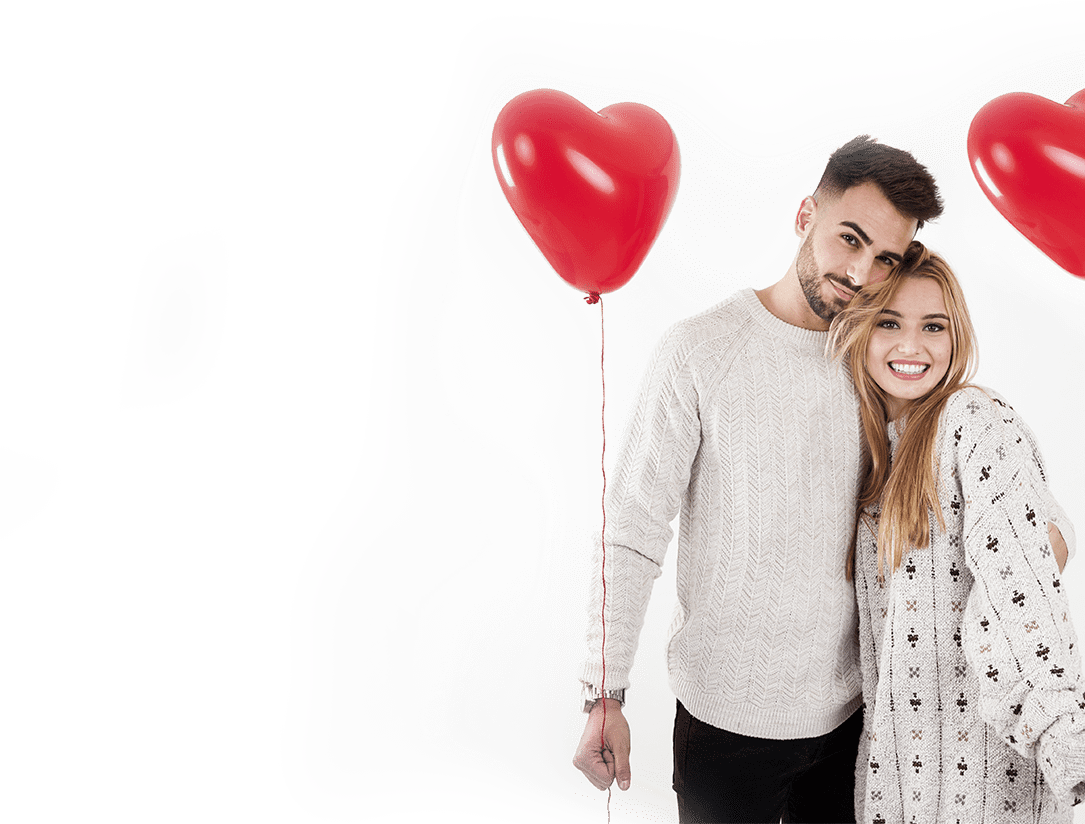
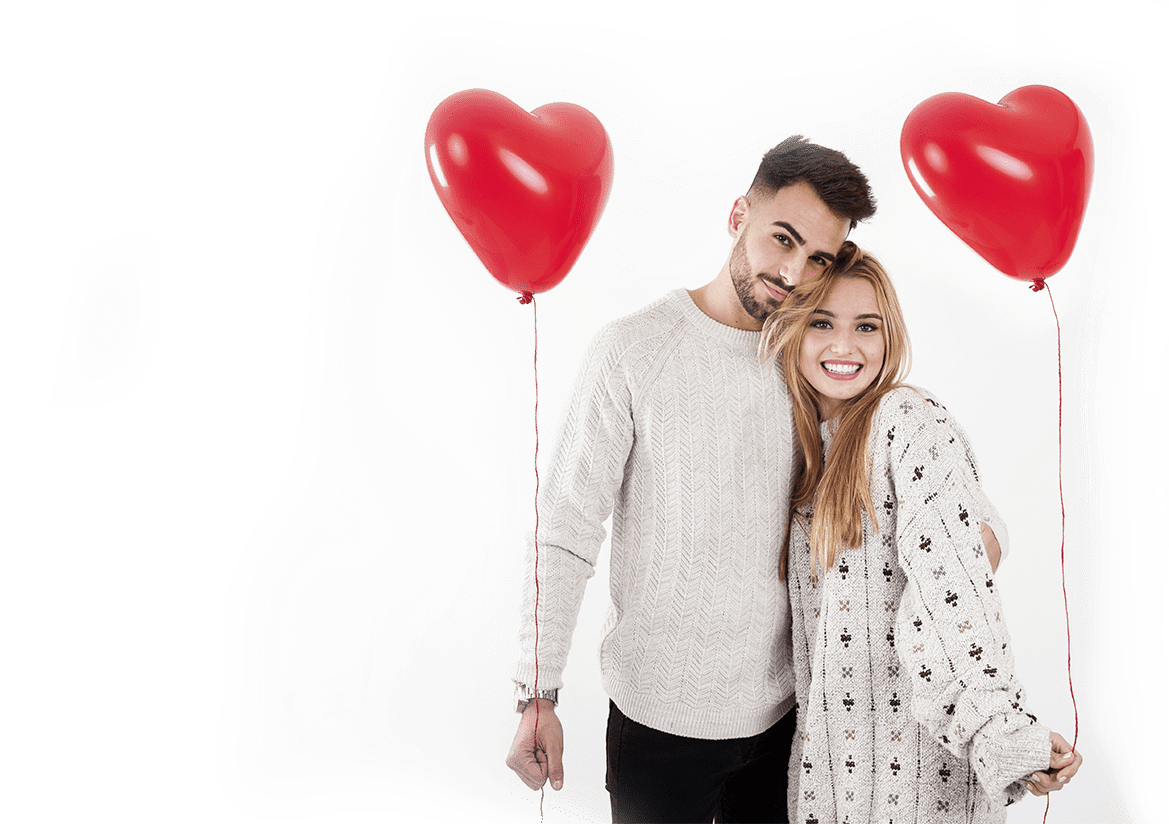
Big screens responsive is done

diff --git a/index.html b/index.html
@@ -1,1 +1,1 @@
-<!DOCTYPE html><html lang="ru"><head><meta charset="UTF-8"/><meta name="viewport" content="width=device-width, initial-scale=1, user-scalable=0, minimum-scale=1, maximum-scale=1"/><meta http-equiv="X-UA-Compatible" content="ie=edge"/><meta name="author" content="Master Vision"/><meta name="description" content="Бесплатный онлайн-вебинар «Любовь и отношения в Дизайне человека»"/><meta property="og:image" content=""/><title>Бесплатный онлайн-вебинар «Любовь и отношения в Дизайне человека»</title><link rel="icon" type="image/x-icon" href="favicon.ico"/><link rel="shortcut icon" type="image/x-icon" href="favicon.png"/><link rel="stylesheet" href="css/bootstrap.min.css"/><link rel="stylesheet" href="css/styles.css"/><script> !function(){var t=document.createElement("script");t.type="text/javascript",t.async=!0,t.src="https://vk.com/js/api/openapi.js?158",t.onload=function(){VK.Retargeting.Init("VK-RTRG-11201-hHU9b"),VK.Retargeting.Hit()},document.head.appendChild(t)}();</script></head><body><noscript><img src="https://vk.com/rtrg?p=VK-RTRG-11201-hHU9b" style="position:fixed; left:-999px;" alt=""/></noscript><!-- Yandex.Metrika counter --><script type="text/javascript">(function (d, w, c) { (w[c] = w[c] || []).push(function() { try { w.yaCounter35450015 = new Ya.Metrika({ id:35450015, clickmap:true, trackLinks:true, accurateTrackBounce:true, webvisor:true }); } catch(e) { } }); var n = d.getElementsByTagName("script")[0], s = d.createElement("script"), f = function () { n.parentNode.insertBefore(s, n); }; s.type = "text/javascript"; s.async = true; s.src = "https://cdn.jsdelivr.net/npm/yandex-metrica-watch/watch.js"; if (w.opera == "[object Opera]") { d.addEventListener("DOMContentLoaded", f, false); } else { f(); } })(document, window, "yandex_metrika_callbacks");</script><noscript><div><img src="https://mc.yandex.ru/watch/35450015" style="position:absolute; left:-9999px;" alt=""/></div></noscript><!-- /Yandex.Metrika counter --><section id="main"><div class="container"><div class="pre">Бесплатный онлайн-вебинар</div><div class="title_n_authors"><h1>ЛЮБОВЬ И ОТНОШЕНИЯ В ДИЗАЙНЕ ЧЕЛОВЕКА</h1><p>Авторы: Анна Ролева и Вероника Юрина</p></div><p class="main_subtitle">Что нужно делать для того, чтобы обрести вторую половинку, и чтобы отношения не разрушались, а укреплялись!</p><button class="button" data-toggle="modal" data-target="#myModalForm">ПОЛУЧИТЬ ОБУЧЕНИЕ БЕСПЛАТНО</button><img src="img/flower_main.png" alt="Цветы" id="flower_main"/></div></section><section id="for"><div class="container"><h3 class="for_title">Это обучение необходимо тем:</h3><div class="row"><div class="col-md-6 col-sm-6"><img id="collage" src="img/collage.jpg" alt="Коллаж"/></div><div class="col-md-6 col-sm-6"><ul class="for_list"><li>Кто <span>испытывает сложности </span>в отношениях: деловых и межличностных</li><li>Кто <span>устал чувствовать боль </span>и страдать от любви</li><li> <span>Кто чувствует, что его потенциал </span>в любви и отношениях реализован не до конца</li><li>У кого <span>нет понимания </span>с партнером</li><li>У кого есть чувства, но <span>отношения «не работают»</span></li><li>Кто не <span>удовлетворяет отношениям </span>с партнером или в семье</li><li>У кого <span>есть проблемы и трудности </span>с детьми или родителями</li><li>Кто <span>испытывает страх </span>открыто выражать себя в отношениях</li><li>Кто испытывает <span>непонимание своей сексуальности </span>и сексуальности партнера</li></ul></div></div><h4 class="for_after_title">И всем тем, кто откликается на нас и Дизайн Человека!</h4><img src="img/for_petals.jpg" alt="2 лепестка" id="for_petals"/></div></section><section id="know"><div class="container"><h3 class="reach_title">Благодаря этому вебинару вы узнаете:</h3><div class="row"><div class="col-md-6 col-sm-6"><ul class="know_list"><li>Как <span>освободиться от груза </span>прошлых отношений и реализовать свой потенциал по-максимуму</li><li> <span>Мастерство построения </span>любовных, семейных и деловых отношениях</li><li>Как вывести ваши отношения из теней и <span>начать проживать свои дар</span></li><li> <span>Механика взаимоотношений </span>с позиции дизайна человека</li><li> <span>Причины </span>сложностей и конфликтов в отношениях</li><li>Где в вашей карте закодирован <span>потенциал </span>к созданию семьи</li><li>Ваша <span>роль в отношениях </span>и сексе с позиции ДЧ</li><li>Как <span>отпустить боль и обиды, </span>поняв свою механику и механику партнера</li><li> <span>Ключи к привлекательности </span>и сексуальности по дизайну</li></ul></div></div></div></section><div class="modal fade" tabindex="-1" role="dialog" id="myModalForm"><div class="modal-dialog" role="document"><div class="modal-content"><div class="modal-wrapper"><button class="close" type="button" data-dismiss="modal" aria-label="Close"><span aria-hidden="true">&times;</span></button><div class="modal-body"><form class="form_newsletter form_modal" id="modalForm" action="https://aleksandrkudryashov1.autoweboffice.ru/?r=personal/newsletter/sub/add&amp;id=3568&amp;lg=ru&amp;Contact[id_newsletter]=420" method="post" enctype="application/x-www-form-urlencoded" accept-charset="UTF-8"><div class="email-block"><input type="hidden" value="1" name="required_fields[email]"/><input class="mail" name="Contact[email]" type="text" placeholder="Ваш email"/></div><button class="button button_mail" type="submit">Получить обучение бесплатно</button><p class="alert_message"></p><!--Обязательный параметр. Не удалять и не изменять!--><input type="hidden" value="420" name="Contact[id_newsletter]"/><!--API код канала рекламы--><input type="hidden" value="Тэсс Русские Руны" name="Contact[id_advertising_channel_page]"/><div class="checking"><input class="check" type="checkbox" id="check" checked="checked"/><label class="check_label" for="check">Согласен/на на обработку <a href="javascript:void(0);" data-toggle="modal" data-target="#myPolitics"> персональных данных</a> по 152 - Ф3</label></div></form></div></div></div></div></div><div class="modal fade" tabindex="-1" role="dialog" id="myPolitics"><div class="modal-dialog" role="document"><div class="modal-content"><div class="modal-wrapper"><div class="modal-header"><button class="close" type="button" data-dismiss="modal" aria-label="Close"><span aria-hidden="true">&times;</span></button><h4 class="modal-title">Политика конфиденциальности<small>(Обновлено 25.05.2018)</small></h4></div><div class="modal-body"><p>Настоящая Политика конфиденциальности персональной информации (далее — Политика) действует в отношении всей информации, которую ООО «Master Vision» и/или его аффилированные лица, могут получить о пользователе во время использования им любого из сайтов, сервисов, служб, программ и продуктов ООО «Master Vision» (далее — Сервисы).</p><p>Использование Сервиса означает безоговорочное согласие пользователя с настоящей Политикой и указанными в ней условиями обработки его персональной информации; в случае несогласия с этими условиями пользователь должен воздержаться от использования Сервиса.</p><p>1. Персональная информация пользователей, которую получает и обрабатывает ООО «Master Vision»</p><p>1.1. В рамках настоящей Политики под «персональной информацией пользователя» понимаются:</p><p>1.1.1. Персональная информация, которую пользователь предоставляет о себе самостоятельно при регистрации (создании учётной записи) или в процессе использования Сервиса, включая персональные данные пользователя. Обязательная для предоставления Сервиса (оказания услуг) информация помечена специальным образом. Иная информация предоставляется пользователем на его усмотрение.</p><p>1.1.2 Данные, которые автоматически передаются Сервису в процессе их использования с помощью установленного на устройстве пользователя программного обеспечения, в том числе IP-адрес, информация из cookie, информация о браузере пользователя (или иной программе, с помощью которой осуществляется доступ к Сервису), время доступа, адрес запрашиваемой страницы.</p><p>1.1.3 Иная информация о пользователе, сбор и/или предоставление которой определено в Регулирующих документах отдельных Сервисов.</p><p>1.2. Настоящая Политика применима только к Сервису ООО «Master Vision». ООО «Master Vision» не контролирует и не несет ответственность за сайты третьих лиц, на которые пользователь может перейти по ссылкам, доступным на сайтах ООО «Master Vision», в том числе в результатах поиска. На таких сайтах у пользователя может собираться или запрашиваться иная персональная информация, а также могут совершаться иные действия.</p><p>1.3. ООО «Master Vision» в общем случае не проверяет достоверность персональной информации, предоставляемой пользователями, и не осуществляет контроль за их дееспособностью. Однако ООО «Master Vision» исходит из того, что пользователь предоставляет достоверную и достаточную персональную информацию по вопросам, предлагаемым в форме регистрации, и поддерживает эту информацию в актуальном состоянии.</p><p>2. Цели сбора и обработки персональной информации о пользователе</p><p>2.1. ООО «Master Vision» собирает и хранит только те персональные данные, которые необходимы для предоставления Сервиса и оказания услуг (исполнения соглашений и договоров с пользователем).</p><p>2.2. Персональную информацию пользователя ООО «Master Vision» может использовать в следующих целях:</p><p>2.2.1. Идентификация стороны в рамках соглашений и договоров с ООО «Master Vision»;</p><p>2.2.2. Предоставление пользователю персонализированных Сервисов;</p><p>2.2.3. Связь с пользователем, в том числе направление уведомлений, запросов и информации, касающихся использования Сервиса, оказания услуг, а также обработка запросов и заявок от пользователя;</p><p>2.2.4. Улучшение качества Сервиса, удобства их использования, разработка новых Сервисов и услуг;</p><p>2.2.5. Таргетирование рекламных материалов;</p><p>2.2.6. Проведение статистических и иных исследований на основе обезличенных данных.</p><p>3. Условия обработки персональной информации пользователя и её передачи третьим лицам</p><p>3.1. ООО «Master Vision» хранит персональную информацию пользователей в соответствии с внутренними регламентами конкретных сервисов.</p><p>3.2. В отношении персональной информации пользователя сохраняется ее конфиденциальность, кроме случаев добровольного предоставления пользователем информации о себе для общего доступа неограниченному кругу лиц. При использовании отдельных Сервисов пользователь соглашается с тем, что определённая часть его персональной информации становится общедоступной.</p><p>3.3. ООО «Master Vision» вправе передать персональную информацию пользователя третьим лицам в следующих случаях:</p><p>3.3.1. Пользователь выразил свое согласие на такие действия;</p><p>3.3.2. Передача необходима в рамках использования пользователем определенного Сервиса либо для оказания услуги пользователю;</p><p>3.3.3. Передача предусмотрена российским или иным применимым законодательством в рамках установленной законодательством процедуры;</p><p>3.3.4. Такая передача происходит в рамках продажи или иной передачи бизнеса (полностью или в части), при этом к приобретателю переходят все обязательства по соблюдению условий настоящей Политики применительно к полученной им персональной информации;</p><p>3.3.5. В целях обеспечения возможности защиты прав и законных интересов ООО «Master Vision» или третьих лиц в случаях, когда пользователь нарушает Пользовательское соглашение сервиса.</p><p>3.4. При обработке персональных данных пользователей ООО «Master Vision» руководствуется Федеральным законом РФ «О персональных данных».</p><p>4. Изменение пользователем персональной информации</p><p>4.1. Пользователь может в любой момент изменить (обновить, дополнить) предоставленную им персональную информацию или её часть, а также параметры её конфиденциальности, воспользовавшись функцией редактирования персональных данных в персональном разделе соответствующего Сервиса.</p><p>4.2. Пользователь также может удалить предоставленную им в рамках определенной учетной записи персональную информацию, воспользовавшись функцией «Отписаться от рассылки» в персональном разделе соответствующего Сервиса При этом удаление аккаунта может повлечь невозможность использования некоторых Сервисов.</p><p>5. Меры, применяемые для защиты персональной информации пользователей ООО «Master Vision» принимает необходимые и достаточные организационные и технические меры для защиты персональной информации пользователя от неправомерного или случайного доступа, уничтожения, изменения, блокирования, копирования, распространения, а также от иных неправомерных действий с ней третьих лиц.</p><p>6. Изменение Политики конфиденциальности. Применимое законодательство</p><p>6.1. ООО «Master Vision» имеет право вносить изменения в настоящую Политику конфиденциальности. При внесении изменений в актуальной редакции указывается дата последнего обновления. Новая редакция Политики вступает в силу с момента ее размещения, если иное не предусмотрено новой редакцией Политики. Действующая редакция всегда находится на странице по адресу http://mastervision.su/confidential/.</p><p>6.2. К настоящей Политике и отношениям между пользователем и ООО «Master Vision», возникающим в связи с применением Политики конфиденциальности, подлежит применению право Российской Федерации.</p><p>7. Обратная связь. Вопросы и предложения</p><p>Все предложения или вопросы по поводу настоящей Политики следует сообщать в Службу поддержки пользователей Mastervision (info@mastervision.su)</p></div></div></div></div></div><script src="js/libs.min.js"></script><script src="js/scripts.js"></script><!--BEGIN JIVOSITE CODE--><!--script| (function() {var widget_id = 'cMdj5UfoZX';var s = document.createElement('script');s.type = 'text/javascript';s.async = true;s.src = '//code.jivosite.com/script/widget/' + widget_id;var ss = document.getElementsByTagName('script')[0];ss.parentNode.insertBefore(s, ss);})();--><!--END JIVOSITE CODE--></body></html>
+<!DOCTYPE html><html lang="ru"><head><meta charset="UTF-8"/><meta name="viewport" content="width=device-width, initial-scale=1, user-scalable=0, minimum-scale=1, maximum-scale=1"/><meta http-equiv="X-UA-Compatible" content="ie=edge"/><meta name="author" content="Master Vision"/><meta name="description" content="Бесплатный онлайн-вебинар «Любовь и отношения в Дизайне человека»"/><meta property="og:image" content=""/><title>Бесплатный онлайн-вебинар «Любовь и отношения в Дизайне человека»</title><link rel="icon" type="image/x-icon" href="favicon.ico"/><link rel="shortcut icon" type="image/x-icon" href="favicon.png"/><link rel="stylesheet" href="css/bootstrap.min.css"/><link rel="stylesheet" href="css/styles.css"/><script> !function(){var t=document.createElement("script");t.type="text/javascript",t.async=!0,t.src="https://vk.com/js/api/openapi.js?158",t.onload=function(){VK.Retargeting.Init("VK-RTRG-11201-hHU9b"),VK.Retargeting.Hit()},document.head.appendChild(t)}();</script></head><body><noscript><img src="https://vk.com/rtrg?p=VK-RTRG-11201-hHU9b" style="position:fixed; left:-999px;" alt=""/></noscript><!-- Yandex.Metrika counter --><script type="text/javascript">(function (d, w, c) { (w[c] = w[c] || []).push(function() { try { w.yaCounter35450015 = new Ya.Metrika({ id:35450015, clickmap:true, trackLinks:true, accurateTrackBounce:true, webvisor:true }); } catch(e) { } }); var n = d.getElementsByTagName("script")[0], s = d.createElement("script"), f = function () { n.parentNode.insertBefore(s, n); }; s.type = "text/javascript"; s.async = true; s.src = "https://cdn.jsdelivr.net/npm/yandex-metrica-watch/watch.js"; if (w.opera == "[object Opera]") { d.addEventListener("DOMContentLoaded", f, false); } else { f(); } })(document, window, "yandex_metrika_callbacks");</script><noscript><div><img src="https://mc.yandex.ru/watch/35450015" style="position:absolute; left:-9999px;" alt=""/></div></noscript><!-- /Yandex.Metrika counter --><section id="main"><div class="container"><div class="pre">Бесплатный онлайн-вебинар</div><div class="title_n_authors"><h1>ЛЮБОВЬ И ОТНОШЕНИЯ В ДИЗАЙНЕ ЧЕЛОВЕКА</h1><p>Авторы: Анна Ролева и Вероника Юрина</p></div><p class="main_subtitle">Что нужно делать для того, чтобы обрести вторую половинку, и чтобы отношения не разрушались, а укреплялись!</p><button class="button" data-toggle="modal" data-target="#myModalForm">ПОЛУЧИТЬ ОБУЧЕНИЕ БЕСПЛАТНО</button><img src="img/flower_main.png" alt="Цветы" id="flower_main"/></div></section><section id="for"><div class="container"><h3 class="for_title">Это обучение необходимо тем:</h3><div class="row"><div class="col-md-6 col-sm-6"><img id="collage" src="img/collage.jpg" alt="Коллаж"/></div><div class="col-md-6 col-sm-6"><ul class="for_list"><li>Кто <span>испытывает сложности </span>в отношениях: деловых и межличностных</li><li>Кто <span>устал чувствовать боль </span>и страдать от любви</li><li> <span>Кто чувствует, что его потенциал </span>в любви и отношениях реализован не до конца</li><li>У кого <span>нет понимания </span>с партнером</li><li>У кого есть чувства, но <span>отношения «не работают»</span></li><li>Кто не <span>удовлетворяет отношениям </span>с партнером или в семье</li><li>У кого <span>есть проблемы и трудности </span>с детьми или родителями</li><li>Кто <span>испытывает страх </span>открыто выражать себя в отношениях</li><li>Кто испытывает <span>непонимание своей сексуальности </span>и сексуальности партнера</li></ul></div></div><h4 class="for_after_title">И всем тем, кто откликается на нас и Дизайн Человека!</h4><img src="img/for_petals.jpg" alt="2 лепестка" id="for_petals"/></div></section><section id="know"><div class="container"><h3 class="reach_title">Благодаря этому вебинару вы узнаете:</h3><div class="row"><div class="col-lg-8 col-md-6 col-sm-6"><ul class="know_list"><li>Как <span>освободиться от груза </span>прошлых отношений и реализовать свой потенциал по-максимуму</li><li> <span>Мастерство построения </span>любовных, семейных и деловых отношениях</li><li>Как вывести ваши отношения из теней и <span>начать проживать свои дар</span></li><li> <span>Механика взаимоотношений </span>с позиции дизайна человека</li><li> <span>Причины </span>сложностей и конфликтов в отношениях</li><li>Где в вашей карте закодирован <span>потенциал </span>к созданию семьи</li><li>Ваша <span>роль в отношениях </span>и сексе с позиции ДЧ</li><li>Как <span>отпустить боль и обиды, </span>поняв свою механику и механику партнера</li><li> <span>Ключи к привлекательности </span>и сексуальности по дизайну</li></ul></div></div></div></section><div class="modal fade" tabindex="-1" role="dialog" id="myModalForm"><div class="modal-dialog" role="document"><div class="modal-content"><div class="modal-wrapper"><button class="close" type="button" data-dismiss="modal" aria-label="Close"><span aria-hidden="true">&times;</span></button><div class="modal-body"><form class="form_newsletter form_modal" id="modalForm" action="https://aleksandrkudryashov1.autoweboffice.ru/?r=personal/newsletter/sub/add&amp;id=3568&amp;lg=ru&amp;Contact[id_newsletter]=467" method="post" enctype="application/x-www-form-urlencoded" accept-charset="UTF-8"><div class="email-block"><input type="hidden" value="1" name="required_fields[email]"/><input class="mail" name="Contact[email]" type="text" placeholder="Ваш email"/></div><button class="button button_mail" type="submit">Получить обучение бесплатно</button><p class="alert_message"></p><!--Обязательный параметр. Не удалять и не изменять!--><input type="hidden" value="467" name="Contact[id_newsletter]"/><!--API код канала рекламы--><input type="hidden" value="Тэсс Русские Руны" name="Contact[id_advertising_channel_page]"/><div class="checking"><input class="check" type="checkbox" id="check" checked="checked"/><label class="check_label" for="check">Согласен/на на обработку <a href="javascript:void(0);" data-toggle="modal" data-target="#myPolitics"> персональных данных</a> по 152 - Ф3</label></div></form></div></div></div></div></div><div class="modal fade" tabindex="-1" role="dialog" id="myPolitics"><div class="modal-dialog" role="document"><div class="modal-content"><div class="modal-wrapper"><div class="modal-header"><button class="close" type="button" data-dismiss="modal" aria-label="Close"><span aria-hidden="true">&times;</span></button><h4 class="modal-title">Политика конфиденциальности<small>(Обновлено 25.05.2018)</small></h4></div><div class="modal-body"><p>Настоящая Политика конфиденциальности персональной информации (далее — Политика) действует в отношении всей информации, которую ООО «Master Vision» и/или его аффилированные лица, могут получить о пользователе во время использования им любого из сайтов, сервисов, служб, программ и продуктов ООО «Master Vision» (далее — Сервисы).</p><p>Использование Сервиса означает безоговорочное согласие пользователя с настоящей Политикой и указанными в ней условиями обработки его персональной информации; в случае несогласия с этими условиями пользователь должен воздержаться от использования Сервиса.</p><p>1. Персональная информация пользователей, которую получает и обрабатывает ООО «Master Vision»</p><p>1.1. В рамках настоящей Политики под «персональной информацией пользователя» понимаются:</p><p>1.1.1. Персональная информация, которую пользователь предоставляет о себе самостоятельно при регистрации (создании учётной записи) или в процессе использования Сервиса, включая персональные данные пользователя. Обязательная для предоставления Сервиса (оказания услуг) информация помечена специальным образом. Иная информация предоставляется пользователем на его усмотрение.</p><p>1.1.2 Данные, которые автоматически передаются Сервису в процессе их использования с помощью установленного на устройстве пользователя программного обеспечения, в том числе IP-адрес, информация из cookie, информация о браузере пользователя (или иной программе, с помощью которой осуществляется доступ к Сервису), время доступа, адрес запрашиваемой страницы.</p><p>1.1.3 Иная информация о пользователе, сбор и/или предоставление которой определено в Регулирующих документах отдельных Сервисов.</p><p>1.2. Настоящая Политика применима только к Сервису ООО «Master Vision». ООО «Master Vision» не контролирует и не несет ответственность за сайты третьих лиц, на которые пользователь может перейти по ссылкам, доступным на сайтах ООО «Master Vision», в том числе в результатах поиска. На таких сайтах у пользователя может собираться или запрашиваться иная персональная информация, а также могут совершаться иные действия.</p><p>1.3. ООО «Master Vision» в общем случае не проверяет достоверность персональной информации, предоставляемой пользователями, и не осуществляет контроль за их дееспособностью. Однако ООО «Master Vision» исходит из того, что пользователь предоставляет достоверную и достаточную персональную информацию по вопросам, предлагаемым в форме регистрации, и поддерживает эту информацию в актуальном состоянии.</p><p>2. Цели сбора и обработки персональной информации о пользователе</p><p>2.1. ООО «Master Vision» собирает и хранит только те персональные данные, которые необходимы для предоставления Сервиса и оказания услуг (исполнения соглашений и договоров с пользователем).</p><p>2.2. Персональную информацию пользователя ООО «Master Vision» может использовать в следующих целях:</p><p>2.2.1. Идентификация стороны в рамках соглашений и договоров с ООО «Master Vision»;</p><p>2.2.2. Предоставление пользователю персонализированных Сервисов;</p><p>2.2.3. Связь с пользователем, в том числе направление уведомлений, запросов и информации, касающихся использования Сервиса, оказания услуг, а также обработка запросов и заявок от пользователя;</p><p>2.2.4. Улучшение качества Сервиса, удобства их использования, разработка новых Сервисов и услуг;</p><p>2.2.5. Таргетирование рекламных материалов;</p><p>2.2.6. Проведение статистических и иных исследований на основе обезличенных данных.</p><p>3. Условия обработки персональной информации пользователя и её передачи третьим лицам</p><p>3.1. ООО «Master Vision» хранит персональную информацию пользователей в соответствии с внутренними регламентами конкретных сервисов.</p><p>3.2. В отношении персональной информации пользователя сохраняется ее конфиденциальность, кроме случаев добровольного предоставления пользователем информации о себе для общего доступа неограниченному кругу лиц. При использовании отдельных Сервисов пользователь соглашается с тем, что определённая часть его персональной информации становится общедоступной.</p><p>3.3. ООО «Master Vision» вправе передать персональную информацию пользователя третьим лицам в следующих случаях:</p><p>3.3.1. Пользователь выразил свое согласие на такие действия;</p><p>3.3.2. Передача необходима в рамках использования пользователем определенного Сервиса либо для оказания услуги пользователю;</p><p>3.3.3. Передача предусмотрена российским или иным применимым законодательством в рамках установленной законодательством процедуры;</p><p>3.3.4. Такая передача происходит в рамках продажи или иной передачи бизнеса (полностью или в части), при этом к приобретателю переходят все обязательства по соблюдению условий настоящей Политики применительно к полученной им персональной информации;</p><p>3.3.5. В целях обеспечения возможности защиты прав и законных интересов ООО «Master Vision» или третьих лиц в случаях, когда пользователь нарушает Пользовательское соглашение сервиса.</p><p>3.4. При обработке персональных данных пользователей ООО «Master Vision» руководствуется Федеральным законом РФ «О персональных данных».</p><p>4. Изменение пользователем персональной информации</p><p>4.1. Пользователь может в любой момент изменить (обновить, дополнить) предоставленную им персональную информацию или её часть, а также параметры её конфиденциальности, воспользовавшись функцией редактирования персональных данных в персональном разделе соответствующего Сервиса.</p><p>4.2. Пользователь также может удалить предоставленную им в рамках определенной учетной записи персональную информацию, воспользовавшись функцией «Отписаться от рассылки» в персональном разделе соответствующего Сервиса При этом удаление аккаунта может повлечь невозможность использования некоторых Сервисов.</p><p>5. Меры, применяемые для защиты персональной информации пользователей ООО «Master Vision» принимает необходимые и достаточные организационные и технические меры для защиты персональной информации пользователя от неправомерного или случайного доступа, уничтожения, изменения, блокирования, копирования, распространения, а также от иных неправомерных действий с ней третьих лиц.</p><p>6. Изменение Политики конфиденциальности. Применимое законодательство</p><p>6.1. ООО «Master Vision» имеет право вносить изменения в настоящую Политику конфиденциальности. При внесении изменений в актуальной редакции указывается дата последнего обновления. Новая редакция Политики вступает в силу с момента ее размещения, если иное не предусмотрено новой редакцией Политики. Действующая редакция всегда находится на странице по адресу http://mastervision.su/confidential/.</p><p>6.2. К настоящей Политике и отношениям между пользователем и ООО «Master Vision», возникающим в связи с применением Политики конфиденциальности, подлежит применению право Российской Федерации.</p><p>7. Обратная связь. Вопросы и предложения</p><p>Все предложения или вопросы по поводу настоящей Политики следует сообщать в Службу поддержки пользователей Mastervision (info@mastervision.su)</p></div></div></div></div></div><script src="js/libs.min.js"></script><script src="js/scripts.js"></script><!--BEGIN JIVOSITE CODE--><!--script| (function() {var widget_id = 'cMdj5UfoZX';var s = document.createElement('script');s.type = 'text/javascript';s.async = true;s.src = '//code.jivosite.com/script/widget/' + widget_id;var ss = document.getElementsByTagName('script')[0];ss.parentNode.insertBefore(s, ss);})();--><!--END JIVOSITE CODE--></body></html>

diff --git a/css/styles.css b/css/styles.css
@@ -1,1 +1,1 @@
-@font-face{font-family:'OpenSansLight';src:url("../fonts/OpenSansLight.eot");src:url("../fonts/OpenSansLight.eot") format('embedded-opentype'), url("../fonts/OpenSansLight.woff2") format('woff2'), url("../fonts/OpenSansLight.woff") format('woff'), url("../fonts/OpenSansLight.ttf") format('truetype'), url("../fonts/OpenSansLight.svg#OpenSansLight") format('svg')}@font-face{font-family:'OpenSansBold';src:url("../fonts/OpenSansBold.eot");src:url("../fonts/OpenSansBold.eot") format('embedded-opentype'), url("../fonts/OpenSansBold.woff2") format('woff2'), url("../fonts/OpenSansBold.woff") format('woff'), url("../fonts/OpenSansBold.ttf") format('truetype'), url("../fonts/OpenSansBold.svg#OpenSansBold") format('svg')}@font-face{font-family:'OpenSans';src:url("../fonts/OpenSans.eot");src:url("../fonts/OpenSans.eot") format('embedded-opentype'), url("../fonts/OpenSans.woff2") format('woff2'), url("../fonts/OpenSans.woff") format('woff'), url("../fonts/OpenSans.ttf") format('truetype'), url("../fonts/OpenSans.svg#OpenSans") format('svg')}@font-face{font-family:'GaramondItalic';src:url("../fonts/GaramondItalic.eot");src:url("../fonts/GaramondItalic.eot") format('embedded-opentype'), url("../fonts/GaramondItalic.woff2") format('woff2'), url("../fonts/GaramondItalic.woff") format('woff'), url("../fonts/GaramondItalic.ttf") format('truetype'), url("../fonts/GaramondItalic.svg#GaramondItalic") format('svg')}@font-face{font-family:'Garamond';src:url("../fonts/Garamond.eot");src:url("../fonts/Garamond.eot") format('embedded-opentype'), url("../fonts/Garamond.woff2") format('woff2'), url("../fonts/Garamond.woff") format('woff'), url("../fonts/Garamond.ttf") format('truetype'), url("../fonts/Garamond.svg#Garamond") format('svg')}*{margin:0;padding:0;outline:none}body{font-size:18px;font-family:'OpenSans', sans-serif}a{color:#fefefe}a:focus{outline:0}a:hover{text-decoration:none}button{border:none}#main{padding:77px 0 63px;background-color:rgba(216,224,240,0.2);background-image:url("../img/main_bg.jpg");background-repeat:no-repeat;background-position:right top;-webkit-background-size:45% 45%;background-size:45%}#main .container{position:relative}.pre{font-size:20px;font-family:"OpenSansBold", sans-serif;color:#fd5f59;line-height:1.3}.title_n_authors{padding:26px 0 44px 103px;max-width:770px;background-image:url("../img/flower_title.png");background-repeat:no-repeat;background-position:0 102px}.title_n_authors h1{font-size:53px;font-family:"Garamond", serif;color:#040404;line-height:1.094;margin:0 0 8px;font-weight:normal}.title_n_authors p{font-size:16px;font-family:"OpenSansBold", sans-serif;color:#040404;line-height:1.2}.main_subtitle{font-size:27px;font-family:"GaramondItalic", serif;color:#100f0f;font-style:italic;line-height:1.333;max-width:435px}.button{-webkit-border-radius:28px;border-radius:28px;background-image:-webkit-gradient(linear, left bottom, left top, from(#ee4635), to(#d7213d));background-image:-webkit-linear-gradient(bottom, #ee4635 0%, #d7213d 100%);background-image:-o-linear-gradient(bottom, #ee4635 0%, #d7213d 100%);background-image:linear-gradient(0deg, #ee4635 0%, #d7213d 100%);width:314px;height:55px;line-height:55px;font-size:14px;font-family:"OpenSansBold", sans-serif;color:#fff;margin-top:55px}.button:hover{background-image:-webkit-gradient(linear, left bottom, left top, from(#d25165), to(#ec6456));background-image:-webkit-linear-gradient(bottom, #d25165 0%, #ec6456 100%);background-image:-o-linear-gradient(bottom, #d25165 0%, #ec6456 100%);background-image:linear-gradient(0deg, #d25165 0%, #ec6456 100%)}#flower_main{position:absolute;bottom:0;left:465px}#for{padding:110px 0 75px}#for .container{position:relative}.for_title{max-width:630px;margin:0 auto 74px;padding:0 0 26px 42px;background-image:url("../img/for_title_flower.png");background-repeat:no-repeat;background-position:-2px 75px;font-size:50px;font-family:"Garamond", serif;color:#0d0d0d;text-transform:uppercase;line-height:1.32;font-weight:normal}.for_list li{font-family:"OpenSansLight", sans-serif;color:#0d0d0d;line-height:1.5;margin-bottom:26px;list-style:none;padding-left:31px;background-image:url("../img/petal_li.jpg");background-repeat:no-repeat;background-position:0 center}.for_list li span{font-family:'OpenSansBold', sans-serif}.for_after_title{font-size:34px;font-family:"GaramondItalic", serif;color:#0d0d0d;margin:70px auto 0;max-width:400px;font-weight:normal;line-height:1.26}#for_petals{position:absolute;bottom:-29px;right:71px}#know{padding:47px 0 49px;background-image:url("../img/know_bg.png");background-repeat:no-repeat;background-position:bottom right}.reach_title{max-width:693px;margin:0 auto 43px;padding:0 0 50px 72px;background-image:url("../img/reach_title_flower.jpg");background-repeat:no-repeat;background-position:9px 72px;font-size:50px;font-family:"Garamond", serif;color:#0d0d0d;text-transform:uppercase;line-height:1.32;font-weight:normal}.know_list li{color:#0e0b0b;line-height:1.5;margin-bottom:28px;background-repeat:no-repeat;background-position:0 center;padding-left:71px;list-style:none}.know_list li span{font-family:'OpenSansBold', sans-serif}.know_list li:first-child{background-image:url("../img/number_1.jpg")}.know_list li:nth-child(2){background-image:url("../img/number_2.jpg")}.know_list li:nth-child(3){background-image:url("../img/number_3.jpg")}.know_list li:nth-child(4){background-image:url("../img/number_4.jpg")}.know_list li:nth-child(5){background-image:url("../img/number_5.jpg");line-height:51px}.know_list li:nth-child(6){background-image:url("../img/number_6.jpg")}.know_list li:nth-child(7){background-image:url("../img/number_7.jpg");line-height:51px}.know_list li:nth-child(8){background-image:url("../img/number_8.jpg")}.know_list li:last-child{background-image:url("../img/number_9.jpg")}#myModalForm .modal-dialog{width:465px}#myModalForm .modal-content{background-color:#d8e0f0;border:none}.mail{display:block;margin:40px auto 0;display:block;width:300px;height:45px;line-height:45px;padding-left:10px;font-size:17px;border:none;-webkit-box-shadow:0 2px 4px 2px rgba(0,0,0,0.1);box-shadow:0 2px 4px 2px rgba(0,0,0,0.1);-webkit-border-radius:3px;border-radius:3px}.button_mail{display:block;margin:20px auto 0}.alert_message{display:none;text-align:center;font-size:16px;padding-top:10px;color:#f00}.checking{display:table;max-width:90%;margin:20px auto 0;text-align:left}.checking .check_label{font-size:11px;color:#000;line-height:22px;cursor:pointer;position:relative;display:table-cell;vertical-align:middle;padding:0 0 0 30px;text-align:left}.checking .check_label a{color:#000;text-decoration:underline}.checking .check_label:before{content:'';-webkit-border-radius:2px;border-radius:2px;background-color:#aaa;position:absolute;left:0;top:0;width:22px;height:22px}.checking .check_label:after{content:'';position:absolute;top:3px;left:-15px;width:18px;height:18px;left:3px;top:-30px;width:16px;height:26px;background-color:transparent;opacity:0;border-bottom:3px solid #ed6f9e;border-right:3px solid #ed6f9e;-webkit-transform:rotate(41deg);-ms-transform:rotate(41deg);transform:rotate(41deg);-webkit-transition:all 0.5s ease;-o-transition:all 0.5s ease;transition:all 0.5s ease}.check{position:absolute;z-index:-1;opacity:0;width:0;height:0;border:0;left:-99999px}.check:checked+label:before{border:1px solid #c4c4c4;background-color:#fff}.check:checked+label:after{opacity:1;top:-10px;-webkit-transition:all 0.5s ease;-o-transition:all 0.5s ease;transition:all 0.5s ease}@-webkit-keyframes autofill{to{color:rgba(29,28,24,0.702);background:#f7f8fa}}input:-webkit-autofill{-webkit-animation-name:autofill;-webkit-animation-fill-mode:both}button.close{font-size:30px;top:10px;right:15px;position:absolute;float:none;margin:0;z-index:99}#myPolitics .modal-title{font-size:20px;font-family:'OpenSansBold', sans-serif;font-weight:normal}#myPolitics .modal-title small{display:block}#myPolitics .modal-body p{font-size:16px;margin-bottom:20px}#post{background-color:rgba(216,224,240,0.2);padding-top:30px;text-align:center}#post #main_screen{background-image:none}.post_title{font-size:32px;margin-bottom:40px;font-family:"Garamond", serif;color:#040404;line-height:1.094;margin:0 0 8px;font-weight:normal}.link_for{font-size:20px;text-decoration:underline;color:#fd5f59}.link_for:focus{text-decoration:underline;color:#fd5f59}.link_for:hover{text-decoration:none;color:#fd5f59}.begin_date{font-size:18px;margin-top:40px}.begin_date span{font-weight:bold}#last_flower{display:block;margin:30px auto 0}
+@font-face{font-family:'OpenSansLight';src:url("../fonts/OpenSansLight.eot");src:url("../fonts/OpenSansLight.eot") format('embedded-opentype'), url("../fonts/OpenSansLight.woff2") format('woff2'), url("../fonts/OpenSansLight.woff") format('woff'), url("../fonts/OpenSansLight.ttf") format('truetype'), url("../fonts/OpenSansLight.svg#OpenSansLight") format('svg')}@font-face{font-family:'OpenSansBold';src:url("../fonts/OpenSansBold.eot");src:url("../fonts/OpenSansBold.eot") format('embedded-opentype'), url("../fonts/OpenSansBold.woff2") format('woff2'), url("../fonts/OpenSansBold.woff") format('woff'), url("../fonts/OpenSansBold.ttf") format('truetype'), url("../fonts/OpenSansBold.svg#OpenSansBold") format('svg')}@font-face{font-family:'OpenSans';src:url("../fonts/OpenSans.eot");src:url("../fonts/OpenSans.eot") format('embedded-opentype'), url("../fonts/OpenSans.woff2") format('woff2'), url("../fonts/OpenSans.woff") format('woff'), url("../fonts/OpenSans.ttf") format('truetype'), url("../fonts/OpenSans.svg#OpenSans") format('svg')}@font-face{font-family:'GaramondItalic';src:url("../fonts/GaramondItalic.eot");src:url("../fonts/GaramondItalic.eot") format('embedded-opentype'), url("../fonts/GaramondItalic.woff2") format('woff2'), url("../fonts/GaramondItalic.woff") format('woff'), url("../fonts/GaramondItalic.ttf") format('truetype'), url("../fonts/GaramondItalic.svg#GaramondItalic") format('svg')}@font-face{font-family:'Garamond';src:url("../fonts/Garamond.eot");src:url("../fonts/Garamond.eot") format('embedded-opentype'), url("../fonts/Garamond.woff2") format('woff2'), url("../fonts/Garamond.woff") format('woff'), url("../fonts/Garamond.ttf") format('truetype'), url("../fonts/Garamond.svg#Garamond") format('svg')}*{margin:0;padding:0;outline:none}body{font-size:18px;font-family:'OpenSans', sans-serif}a{color:#fefefe}a:focus{outline:0}a:hover{text-decoration:none}button{border:none}#main{padding:77px 0 63px;background-color:rgba(216,224,240,0.2);background-image:url("../img/main_bg.jpg");background-repeat:no-repeat;background-position:right top;-webkit-background-size:45% 45%;background-size:45%}#main .container{position:relative}.pre{font-size:20px;font-family:"OpenSansBold", sans-serif;color:#fd5f59;line-height:1.3}.title_n_authors{padding:26px 0 44px 103px;max-width:770px;background-image:url("../img/flower_title.png");background-repeat:no-repeat;background-position:0 102px}.title_n_authors h1{font-size:53px;font-family:"Garamond", serif;color:#040404;line-height:1.094;margin:0 0 8px;font-weight:normal}.title_n_authors p{font-size:16px;font-family:"OpenSansBold", sans-serif;color:#040404;line-height:1.2}.main_subtitle{font-size:27px;font-family:"GaramondItalic", serif;color:#100f0f;font-style:italic;line-height:1.333;max-width:435px}.button{-webkit-border-radius:28px;border-radius:28px;background-image:-webkit-gradient(linear, left bottom, left top, from(#ee4635), to(#d7213d));background-image:-webkit-linear-gradient(bottom, #ee4635 0%, #d7213d 100%);background-image:-o-linear-gradient(bottom, #ee4635 0%, #d7213d 100%);background-image:linear-gradient(0deg, #ee4635 0%, #d7213d 100%);width:314px;height:55px;line-height:55px;font-size:14px;font-family:"OpenSansBold", sans-serif;color:#fff;margin-top:55px}.button:hover{background-image:-webkit-gradient(linear, left bottom, left top, from(#d25165), to(#ec6456));background-image:-webkit-linear-gradient(bottom, #d25165 0%, #ec6456 100%);background-image:-o-linear-gradient(bottom, #d25165 0%, #ec6456 100%);background-image:linear-gradient(0deg, #d25165 0%, #ec6456 100%)}#flower_main{position:absolute;bottom:0;left:465px}#for{padding:110px 0 75px}#for .container{position:relative}.for_title{max-width:630px;margin:0 auto 74px;padding:0 0 26px 42px;background-image:url("../img/for_title_flower.png");background-repeat:no-repeat;background-position:-2px 75px;font-size:50px;font-family:"Garamond", serif;color:#0d0d0d;text-transform:uppercase;line-height:1.32;font-weight:normal}.for_list li{font-family:"OpenSansLight", sans-serif;color:#0d0d0d;line-height:1.5;margin-bottom:26px;list-style:none;padding-left:31px;background-image:url("../img/petal_li.jpg");background-repeat:no-repeat;background-position:0 center}.for_list li span{font-family:'OpenSansBold', sans-serif}.for_after_title{font-size:34px;font-family:"GaramondItalic", serif;color:#0d0d0d;margin:70px auto 0;max-width:400px;font-weight:normal;line-height:1.26}#for_petals{position:absolute;bottom:-29px;right:71px}#know{padding:47px 0 49px;background-image:url("../img/know_bg.png");background-repeat:no-repeat;background-position:210% bottom}.reach_title{max-width:693px;margin:0 auto 43px;padding:0 0 50px 72px;background-image:url("../img/reach_title_flower.jpg");background-repeat:no-repeat;background-position:9px 72px;font-size:50px;font-family:"Garamond", serif;color:#0d0d0d;text-transform:uppercase;line-height:1.32;font-weight:normal}.know_list li{color:#0e0b0b;line-height:1.5;margin-bottom:28px;background-repeat:no-repeat;background-position:0 center;padding-left:71px;list-style:none}.know_list li span{font-family:'OpenSansBold', sans-serif}.know_list li:first-child{background-image:url("../img/number_1.jpg")}.know_list li:nth-child(2){background-image:url("../img/number_2.jpg")}.know_list li:nth-child(3){background-image:url("../img/number_3.jpg")}.know_list li:nth-child(4){background-image:url("../img/number_4.jpg")}.know_list li:nth-child(5){background-image:url("../img/number_5.jpg");line-height:51px}.know_list li:nth-child(6){background-image:url("../img/number_6.jpg")}.know_list li:nth-child(7){background-image:url("../img/number_7.jpg");line-height:51px}.know_list li:nth-child(8){background-image:url("../img/number_8.jpg")}.know_list li:last-child{background-image:url("../img/number_9.jpg")}#myModalForm .modal-dialog{width:465px}#myModalForm .modal-content{background-color:#d8e0f0;border:none}.mail{display:block;margin:40px auto 0;display:block;width:300px;height:45px;line-height:45px;padding-left:10px;font-size:17px;border:none;-webkit-box-shadow:0 2px 4px 2px rgba(0,0,0,0.1);box-shadow:0 2px 4px 2px rgba(0,0,0,0.1);-webkit-border-radius:3px;border-radius:3px}.button_mail{display:block;margin:20px auto 0}.alert_message{display:none;text-align:center;font-size:16px;padding-top:10px;color:#f00}.checking{display:table;max-width:90%;margin:20px auto 0;text-align:left}.checking .check_label{font-size:11px;color:#000;line-height:22px;cursor:pointer;position:relative;display:table-cell;vertical-align:middle;padding:0 0 0 30px;text-align:left}.checking .check_label a{color:#000;text-decoration:underline}.checking .check_label:before{content:'';-webkit-border-radius:2px;border-radius:2px;background-color:#aaa;position:absolute;left:0;top:0;width:22px;height:22px}.checking .check_label:after{content:'';position:absolute;top:3px;left:-15px;width:18px;height:18px;left:3px;top:-30px;width:16px;height:26px;background-color:transparent;opacity:0;border-bottom:3px solid #ed6f9e;border-right:3px solid #ed6f9e;-webkit-transform:rotate(41deg);-ms-transform:rotate(41deg);transform:rotate(41deg);-webkit-transition:all 0.5s ease;-o-transition:all 0.5s ease;transition:all 0.5s ease}.check{position:absolute;z-index:-1;opacity:0;width:0;height:0;border:0;left:-99999px}.check:checked+label:before{border:1px solid #c4c4c4;background-color:#fff}.check:checked+label:after{opacity:1;top:-10px;-webkit-transition:all 0.5s ease;-o-transition:all 0.5s ease;transition:all 0.5s ease}@-webkit-keyframes autofill{to{color:rgba(29,28,24,0.702);background:#f7f8fa}}input:-webkit-autofill{-webkit-animation-name:autofill;-webkit-animation-fill-mode:both}button.close{font-size:30px;top:10px;right:15px;position:absolute;float:none;margin:0;z-index:99}#myPolitics .modal-title{font-size:20px;font-family:'OpenSansBold', sans-serif;font-weight:normal}#myPolitics .modal-title small{display:block}#myPolitics .modal-body p{font-size:16px;margin-bottom:20px}#post{background-color:rgba(216,224,240,0.2);padding-top:30px;text-align:center}#post #main_screen{background-image:none}.post_title{font-size:32px;margin-bottom:40px;font-family:"Garamond", serif;color:#040404;line-height:1.094;margin:0 0 8px;font-weight:normal}.link_for{font-size:20px;text-decoration:underline;color:#fd5f59}.link_for:focus{text-decoration:underline;color:#fd5f59}.link_for:hover{text-decoration:none;color:#fd5f59}.begin_date{font-size:18px;margin-top:40px}.begin_date span{font-weight:bold}#last_flower{display:block;margin:30px auto 0}@media screen and (min-width:1400px){.know_list li:last-child,.know_list li:nth-child(2),.know_list li:nth-child(3),.know_list li:nth-child(4),.know_list li:nth-child(5),.know_list li:nth-child(6),.know_list li:nth-child(7),.know_list li:nth-child(8){line-height:51px}}@media screen and (min-width:1900px){#main{background-position:73% 0;-webkit-background-size:30% 30%;background-size:30%}#know{background-position:100% bottom}}@media screen and (min-width:2300px){.container{width:1400px}#main,#post #main_screen{background-position:73% 32%;padding:100px 0}#myPolitics .modal-title,.for_list li,.know_list li,.link_for,.pre{font-size:24px}#myPolitics .modal-body p,.alert_message,.begin_date,.mail,.title_n_authors p{font-size:22px}.button{font-size:20px;width:425px;max-width:100%}.for_after_title{font-size:40px;max-width:474px}.checking .check_label{font-size:16px}.button_mail{width:365px}.post_title{font-size:43px}#know{background-position:83% bottom}}
